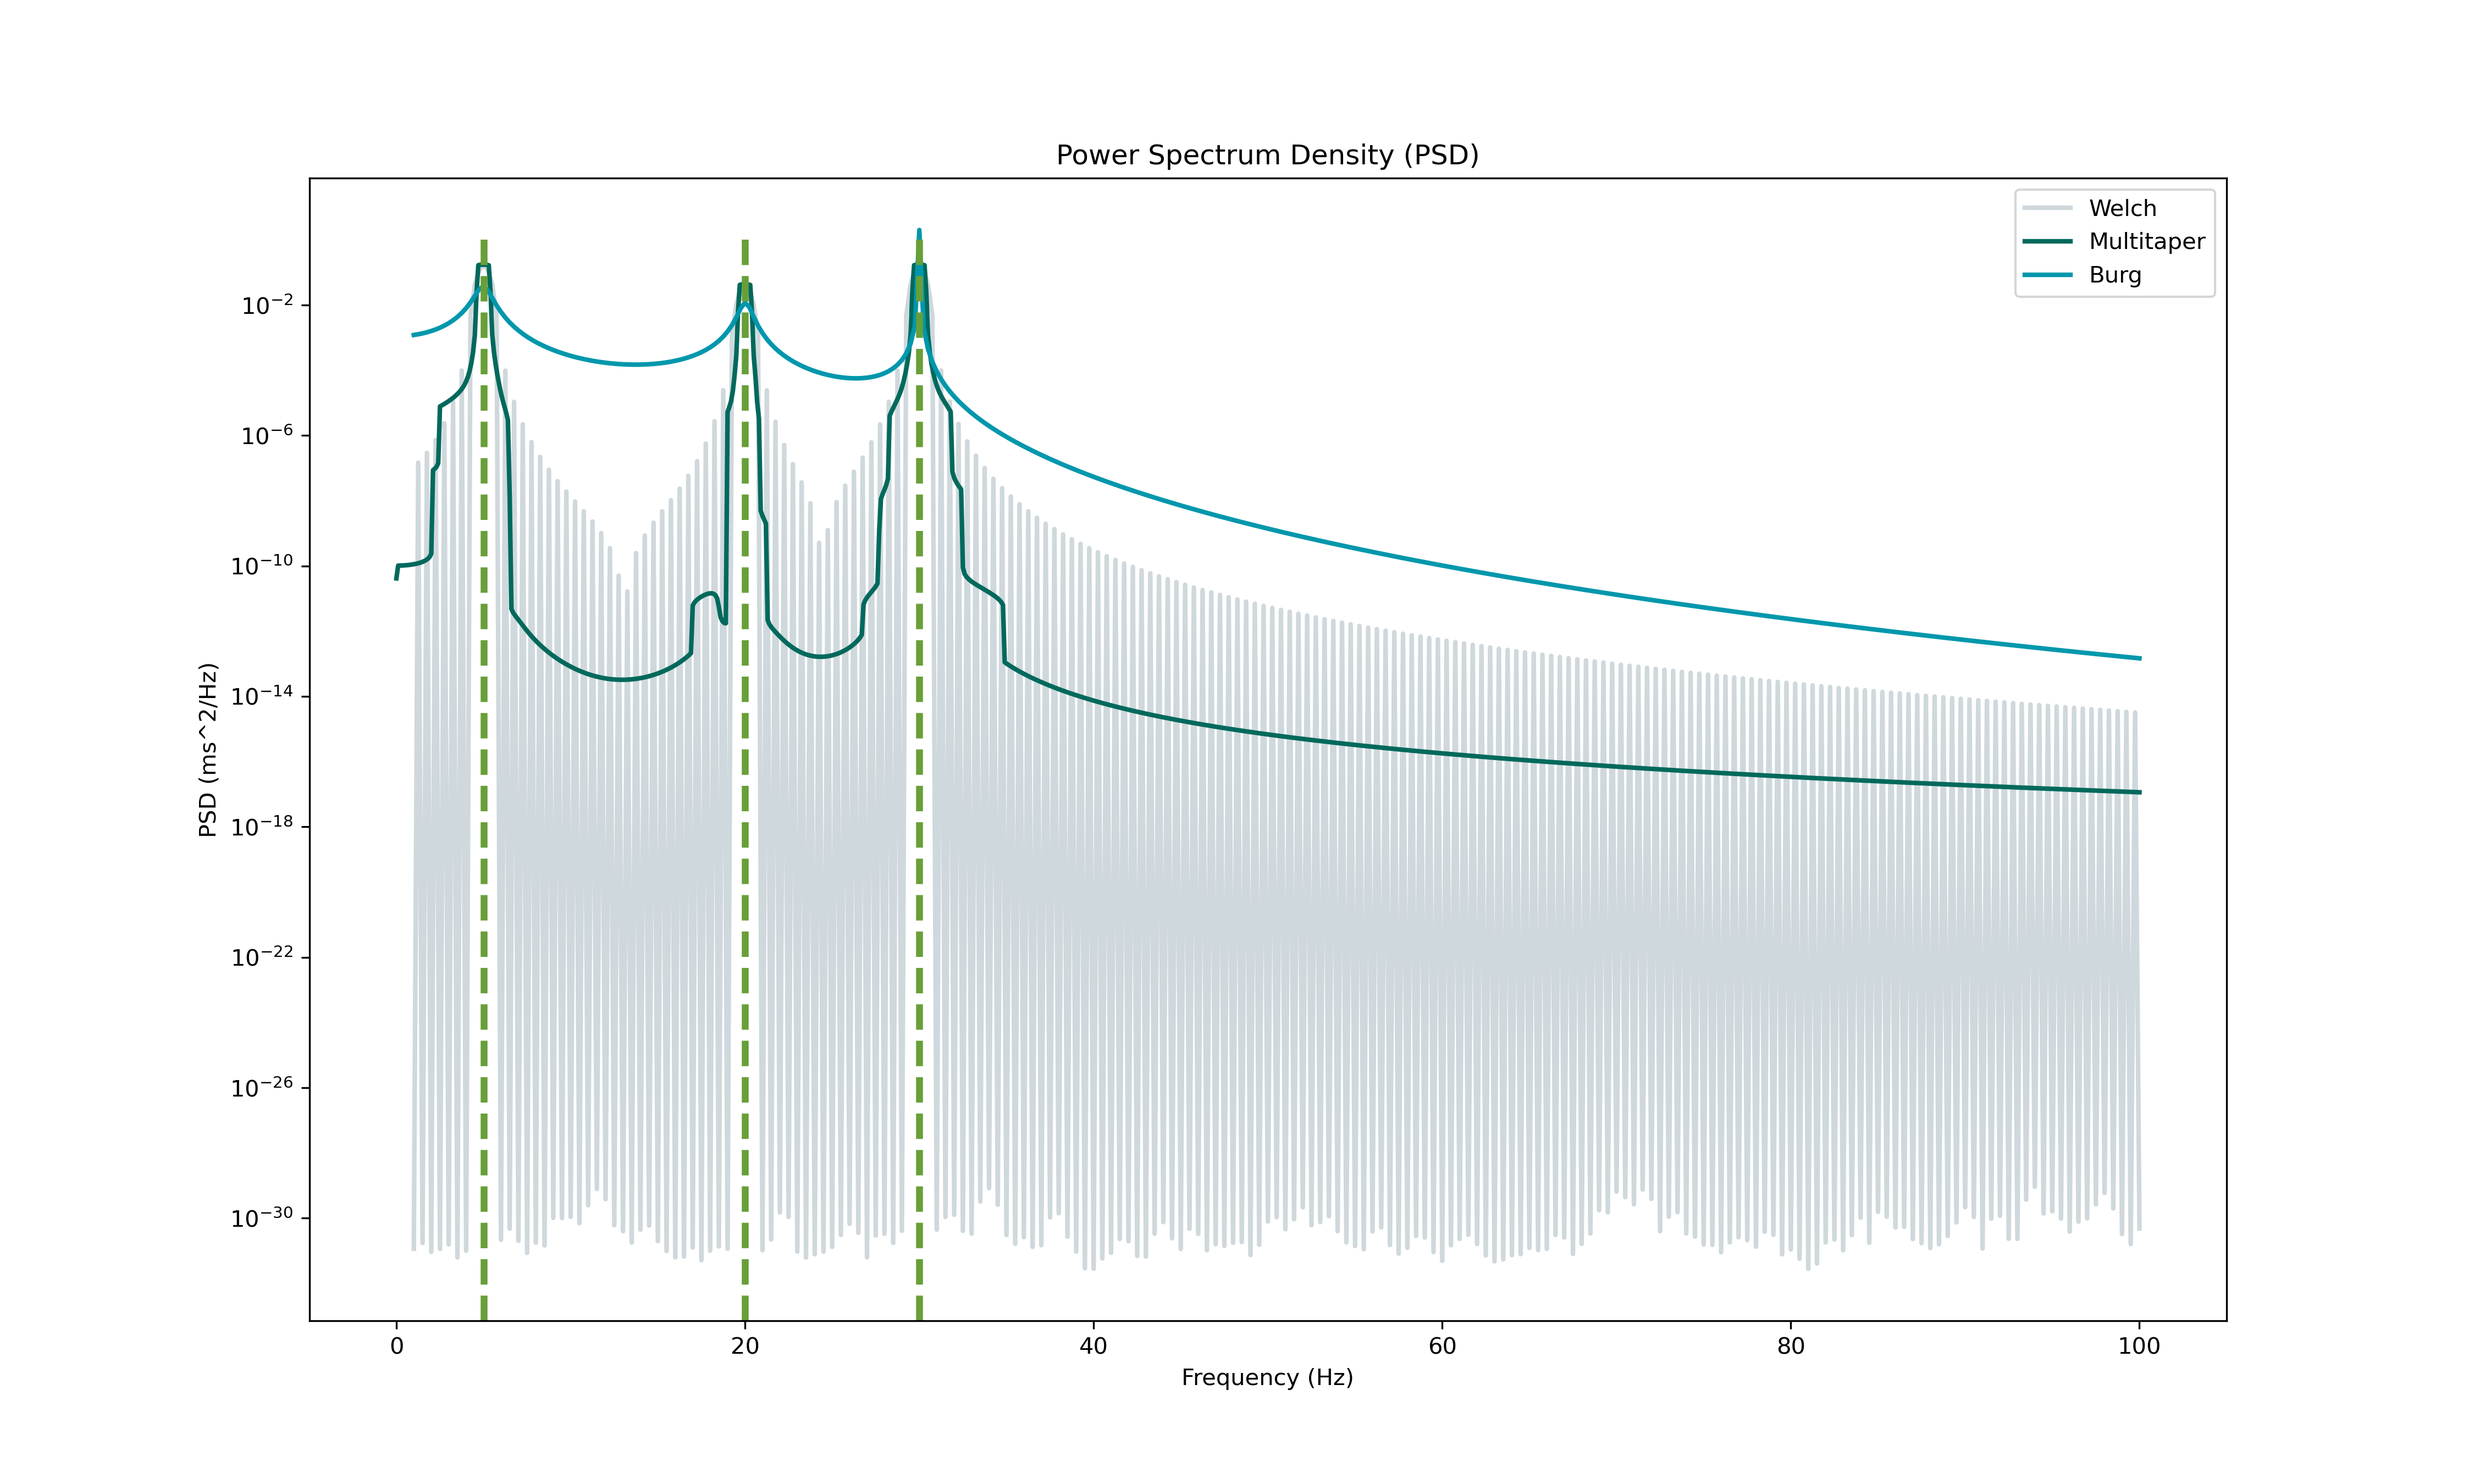
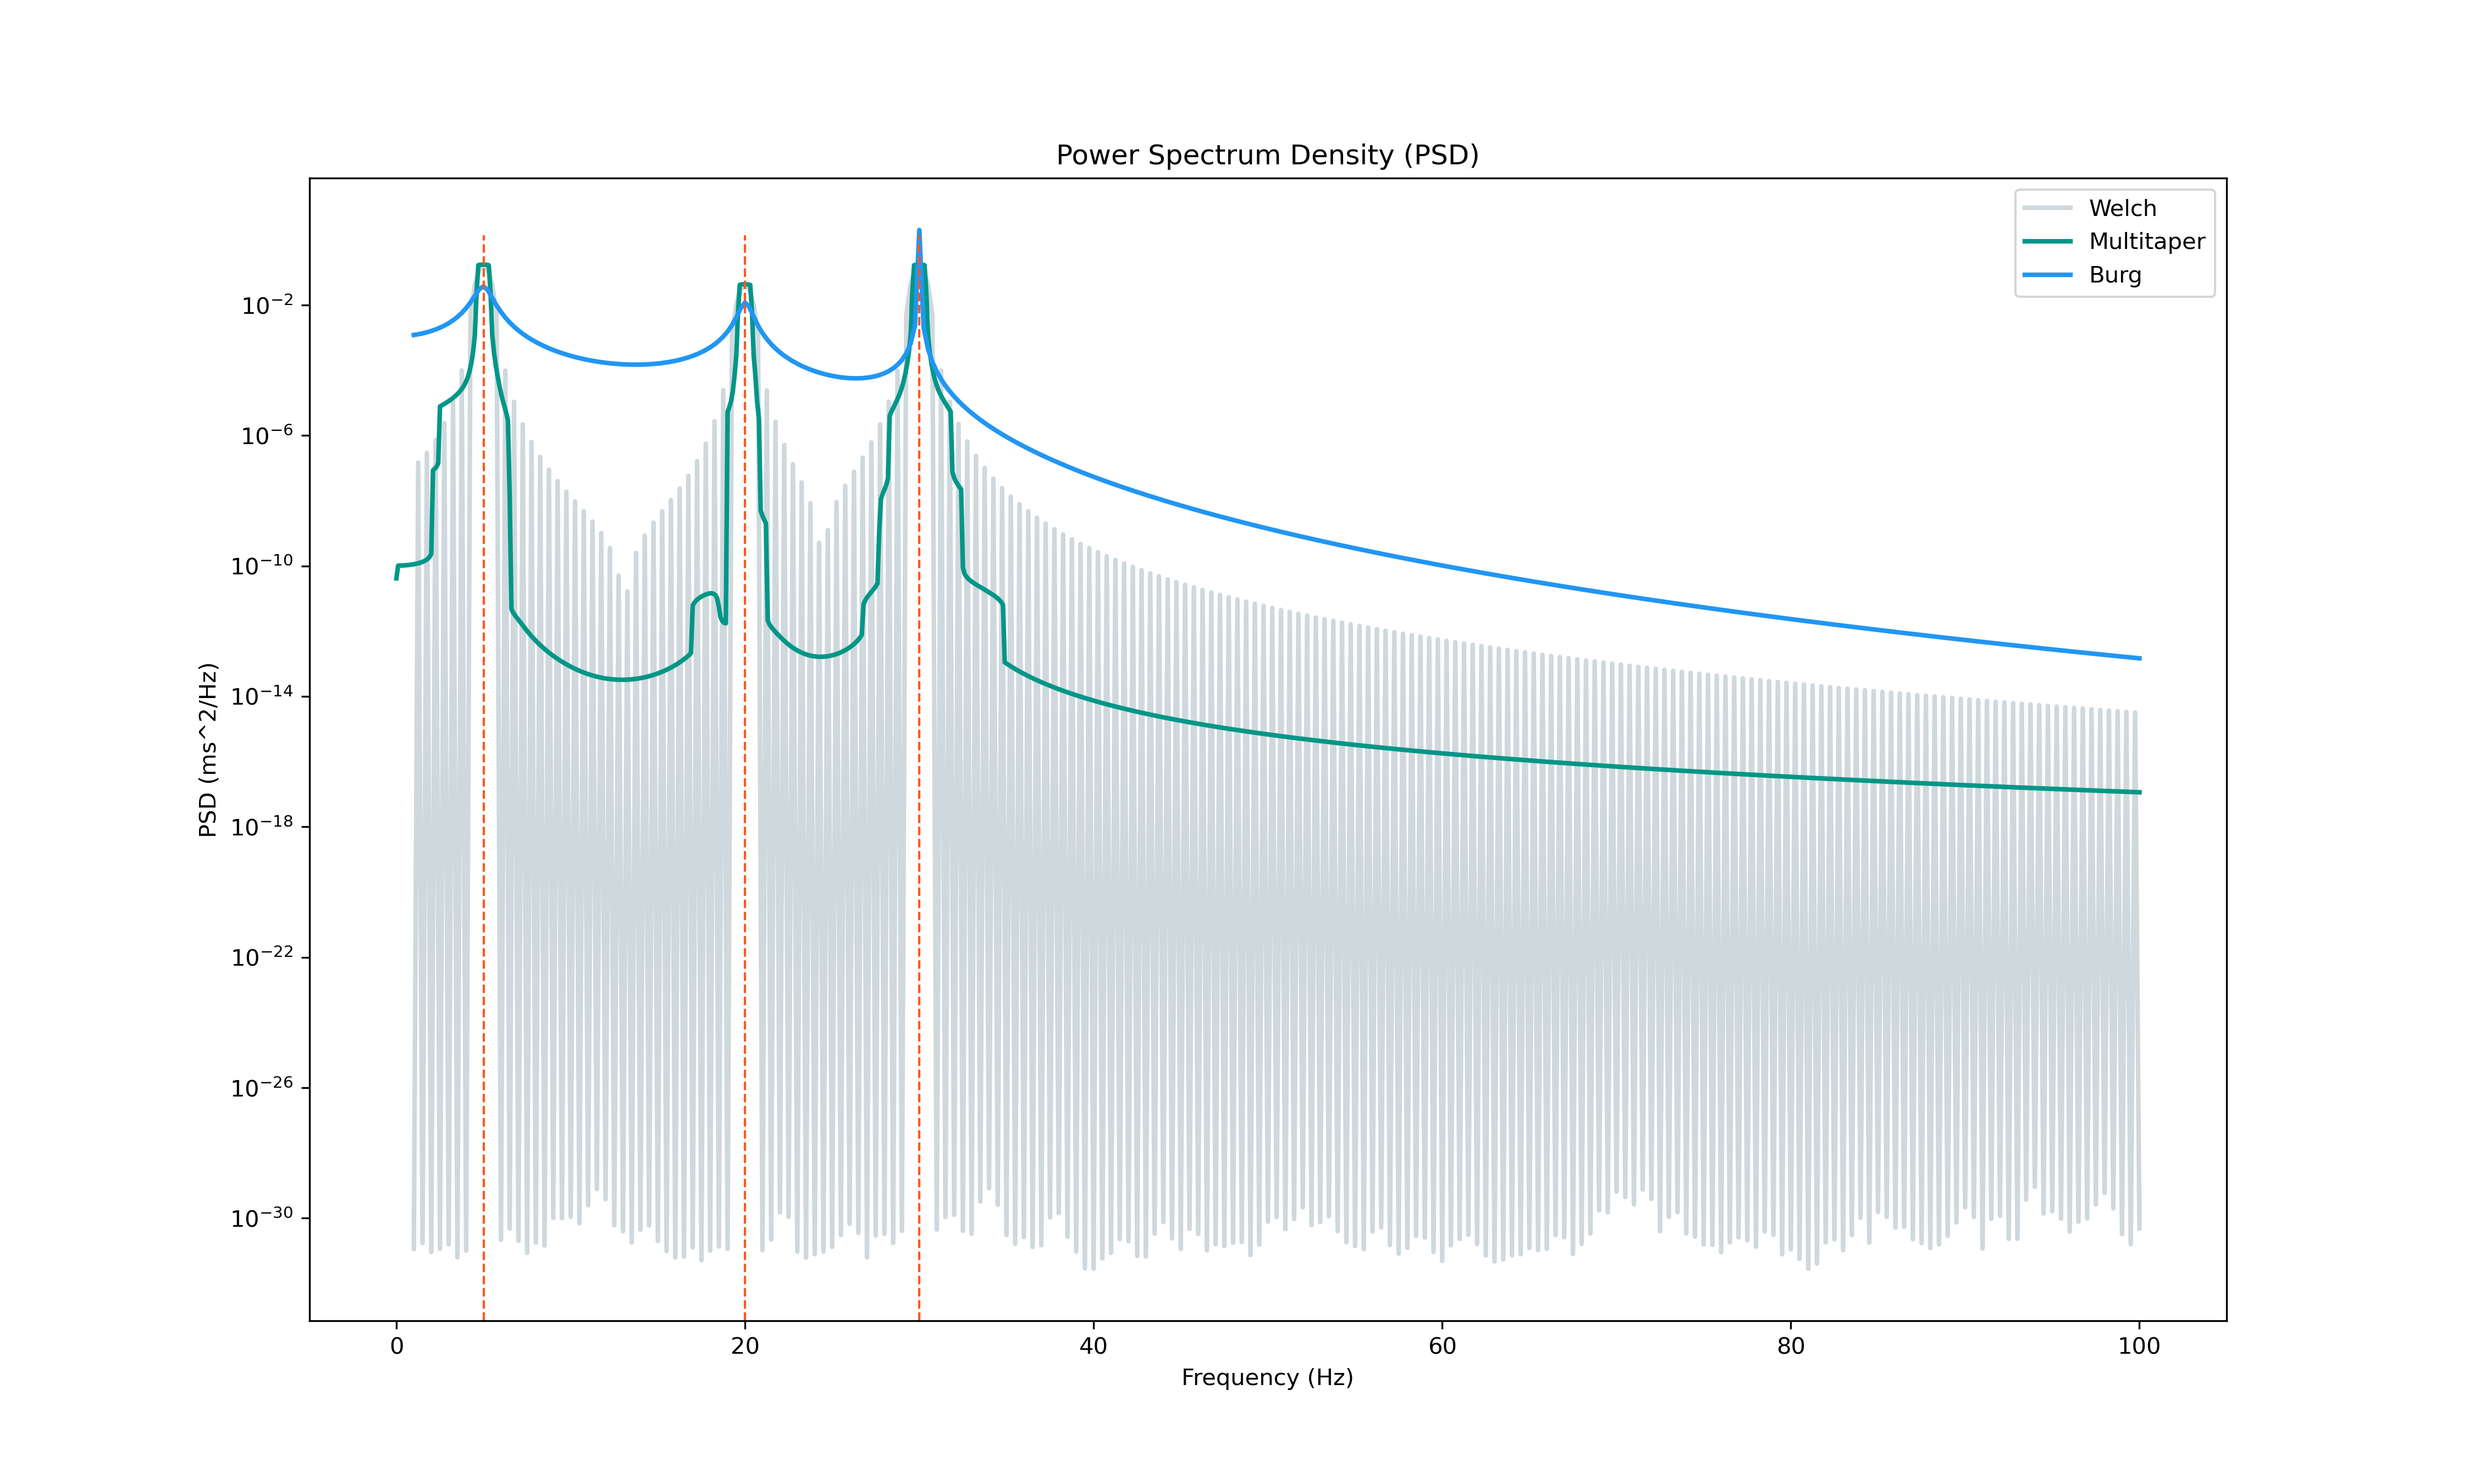
fixes links and figures

diff --git a/docs/readme/README_examples.py b/docs/readme/README_examples.py
@@ -292,9 +292,9 @@ burg = nk.signal_psd(signal, method="burg", min_frequency=1, show=False, ar_orde
 # Visualize the different methods together
 fig, ax = plt.subplots()
 
-ax.plot(welch["Frequency"], welch["Power"], label="Welch", color="#CFD8DC", linewidth=2)
+ax.plot(welch["Frequency"], welch["Power"].reset_index(drop=True), label="Welch", color="#CFD8DC", linewidth=2)
 ax.plot(multitaper["Frequency"], multitaper["Power"], label="Multitaper", color="#00695C", linewidth=2)
-ax.plot(burg["Frequency"], burg["Power"], label="Burg", color="#0097AC", linewidth=2)
+ax.plot(burg["Frequency"], burg["Power"], label="Burg", color="#2196F3", linewidth=2)
 
 ax.set_title("Power Spectrum Density (PSD)")
 ax.set_yscale('log')
@@ -302,9 +302,8 @@ ax.set_xlabel("Frequency (Hz)")
 ax.set_ylabel("PSD (ms^2/Hz)")
 ax.legend(loc="upper right")
 
-ax.axvline(5, color="#689F38", linewidth=3, ymax=0.95, linestyle="--")
-ax.axvline(20, color="#689F38", linewidth=3, ymax=0.95, linestyle="--")
-ax.axvline(30, color="#689F38", linewidth=3, ymax=0.95, linestyle="--")
+for x in [5, 20, 30]:
+    ax.axvline(x, color="#FF5722", linewidth=3, ymax=0.95, linestyle="--")
 
 # Save plot
 fig = plt.gcf()

diff --git a/README.rst b/README.rst
@@ -434,7 +434,7 @@ ECG Delineation
 
 
 
-.. image:: https://raw.github.com/neuropsychology/NeuroKit/master/docs/readme/README_delineation.png
+.. image:: https://raw.github.com/neuropsychology/NeuroKit/master/docs/readme/README_delineate.png
        :target: https://neurokit2.readthedocs.io/en/latest/examples/ecg_delineate.html
 
 
